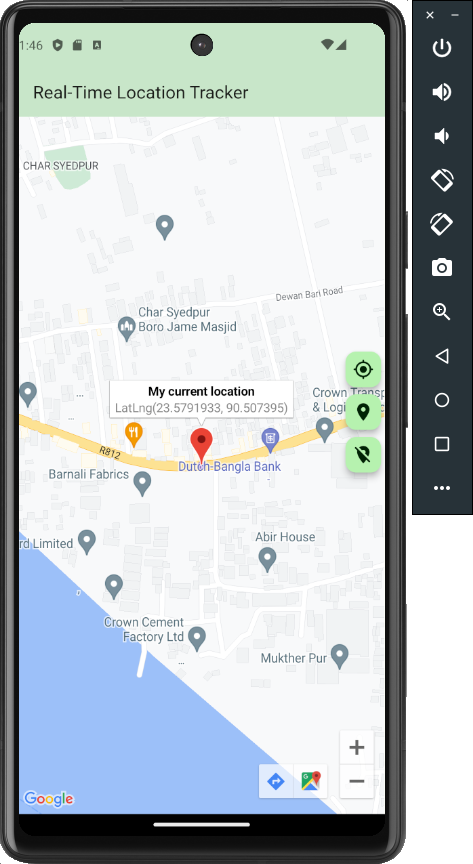
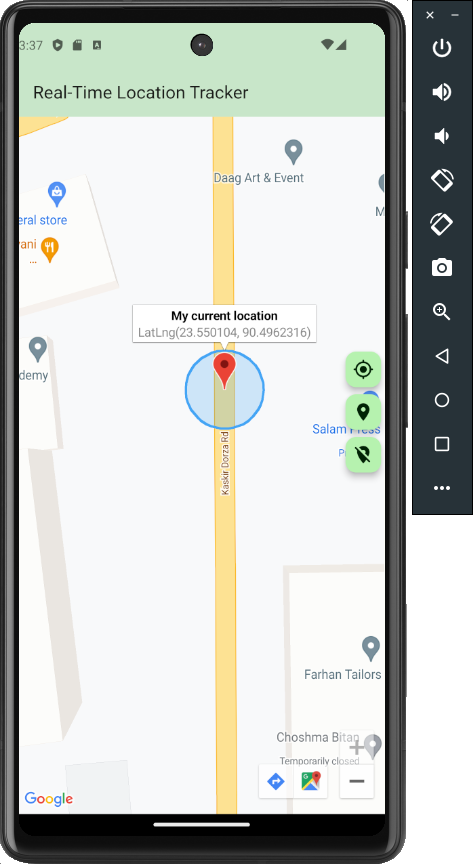
some ui bug fixes

diff --git a/Assignments/mod15asgmt/lib/map_page.dart b/Assignments/mod15asgmt/lib/map_page.dart
@@ -131,9 +131,9 @@ class _MapPageState extends State<MapPage> {
                   circleId: const CircleId('current_location_CI'),
                   radius: 3,
                   center: currentLocation,
-                  strokeColor: Colors.deepPurple.shade400,
+                  strokeColor: Colors.blue.shade400,
                   strokeWidth: 3,
-                  fillColor: Colors.deepPurple.withAlpha(50)),
+                  fillColor: Colors.blue.withAlpha(50)),
             },
             initialCameraPosition: CameraPosition(
               zoom: 17,

diff --git a/Assignments/mod15asgmt/lib/widgets.dart b/Assignments/mod15asgmt/lib/widgets.dart
@@ -16,7 +16,7 @@ class CustomDialogBox {
             style: TextStyle(fontSize: 20),
           ),
           content: const Text(
-            'Please turn on location permissions in the settings.\nPermissions > Location > Allow',
+            'Please turn on location permissions in the app settings.\nPermissions > Location > Allow',
             style: TextStyle(fontSize: 16),
           ),
           actions: [
